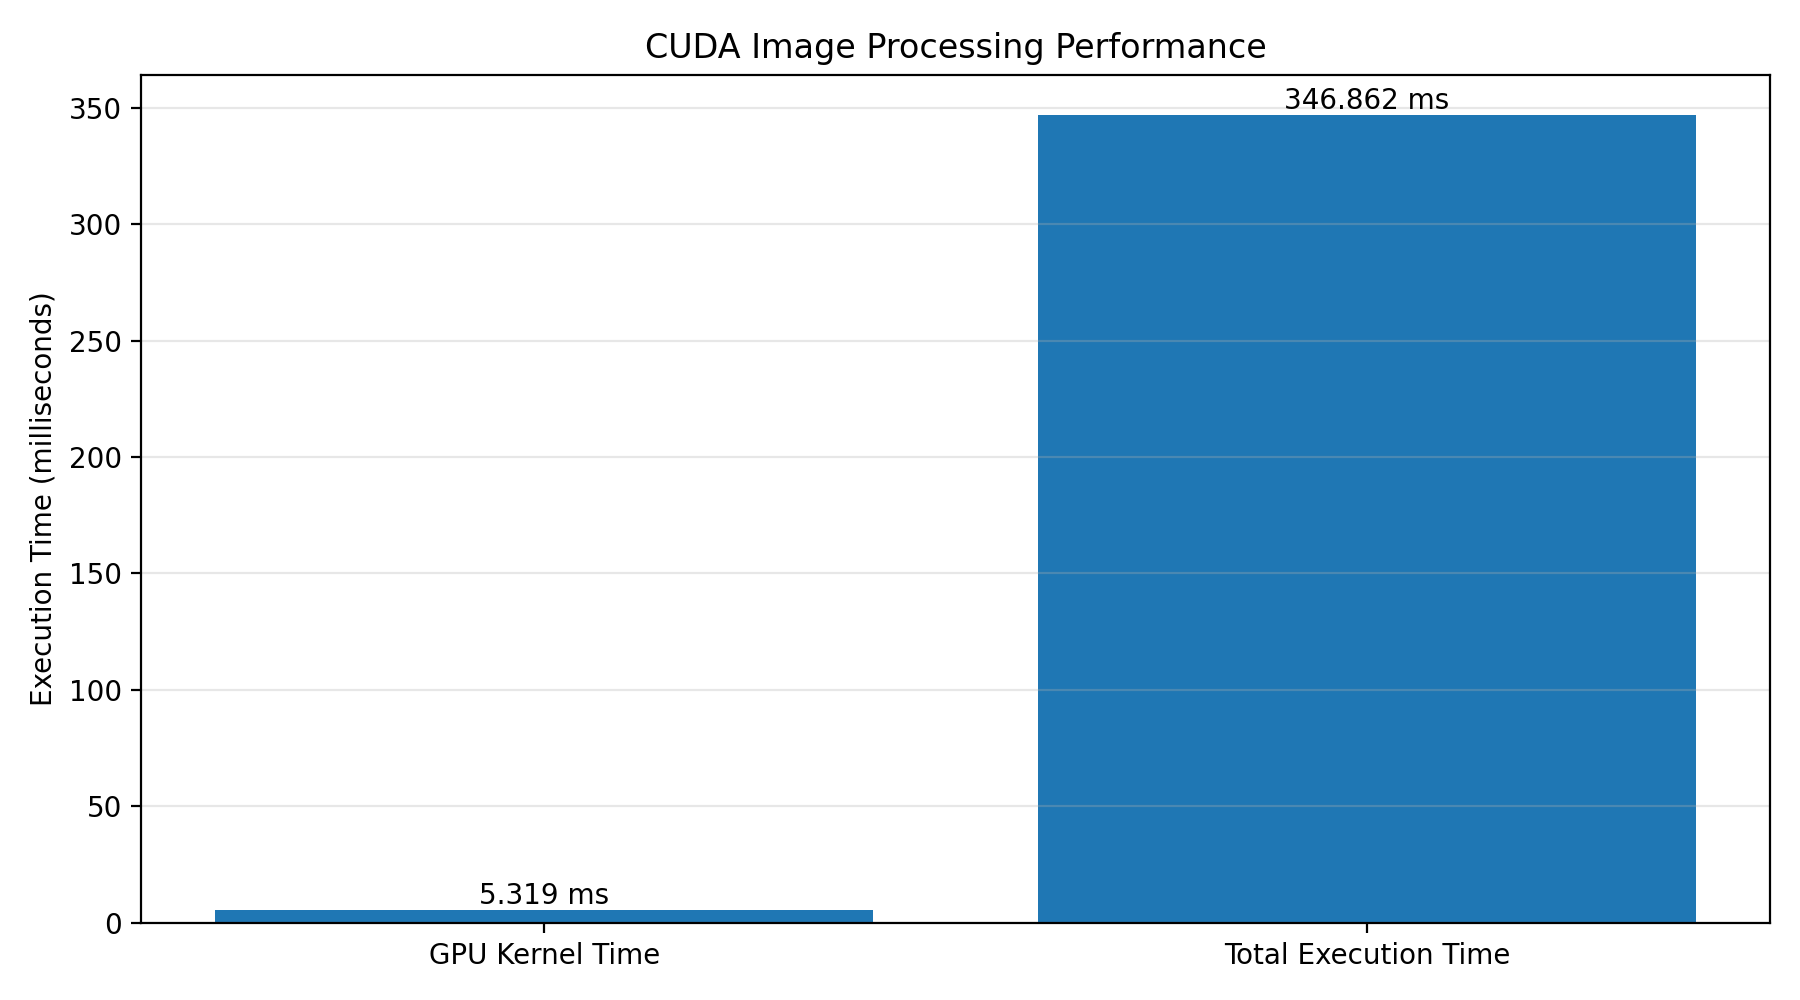
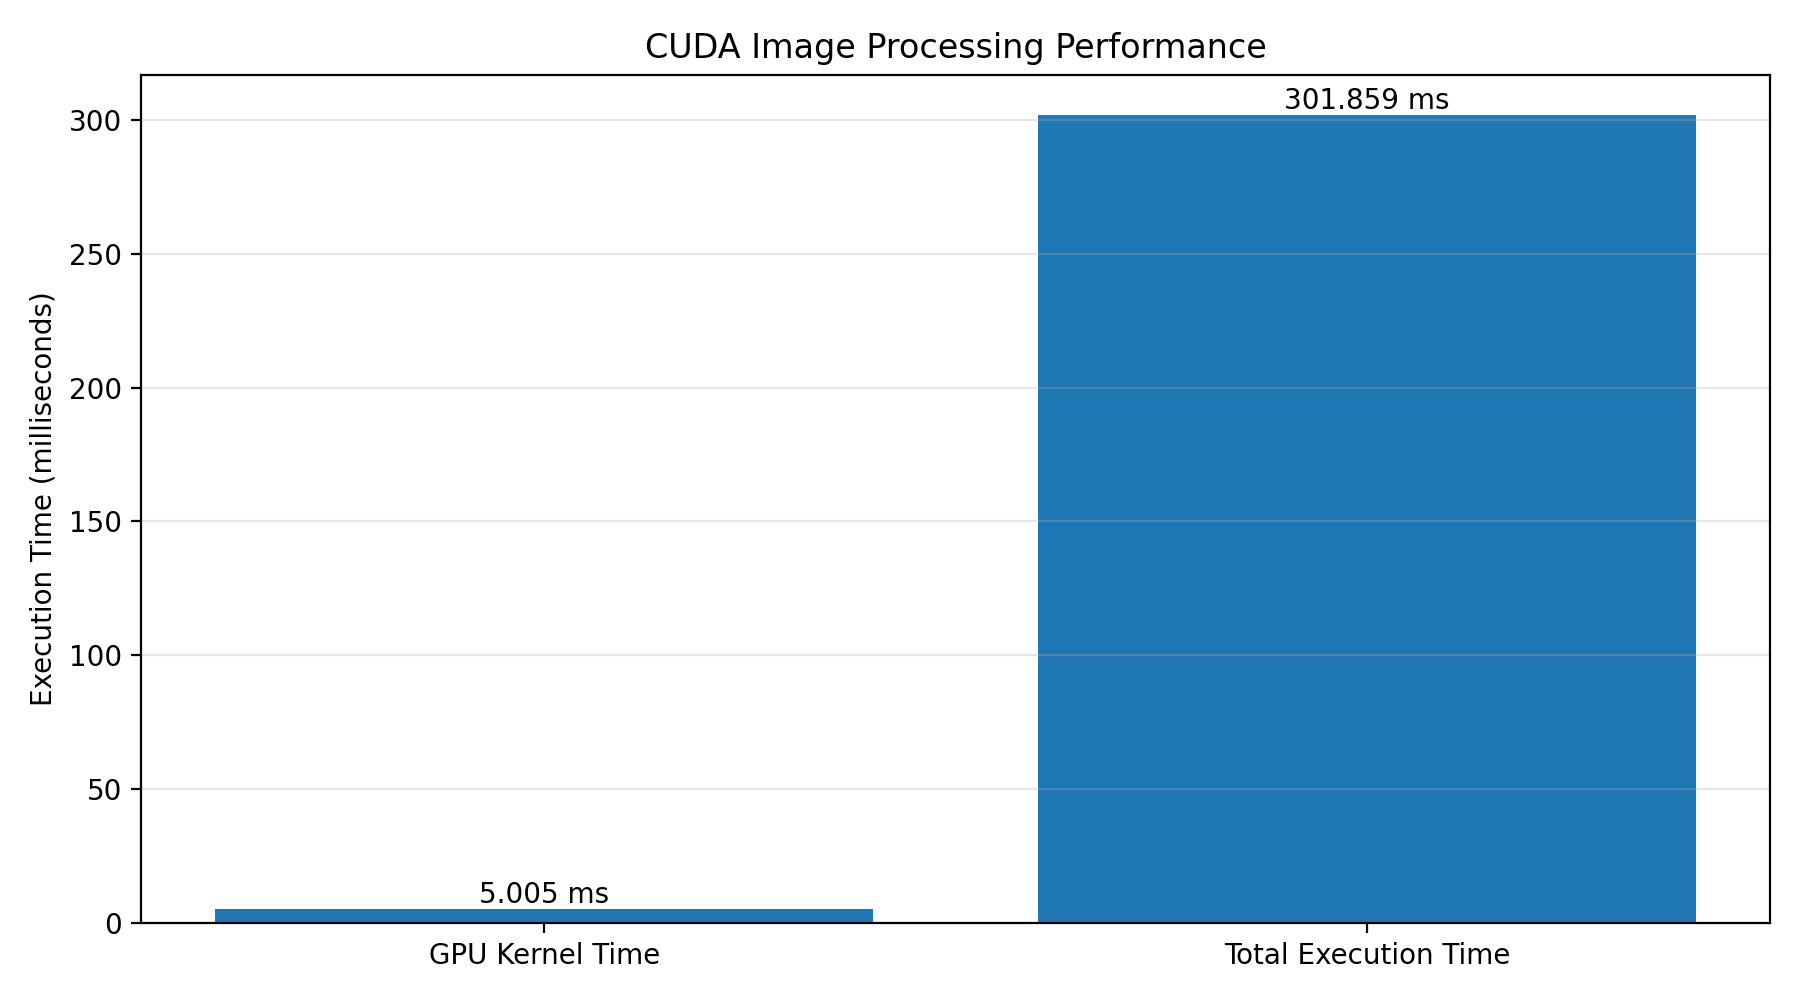
Update CUDA execution results and project workflow

diff --git a/README.md b/README.md
@@ -105,10 +105,10 @@ Platform: Google Colab
 Actual recorded execution:
 
 - Images processed: 200
-- GPU kernel time: 5.3191 ms
-- Total execution time: 346.862 ms
-- Average GPU kernel time per image: 0.0265955 ms
-- Overall throughput: approximately 576.6 images/second
+- GPU kernel time: 5.00541 ms
+- Total execution time: 301.859 ms
+- Average GPU kernel time per image: 0.025027 ms
+- Overall throughput: approximately 662.56 images/second
 
 These measurements are from one recorded execution.
 Results may vary depending on GPU availability and
